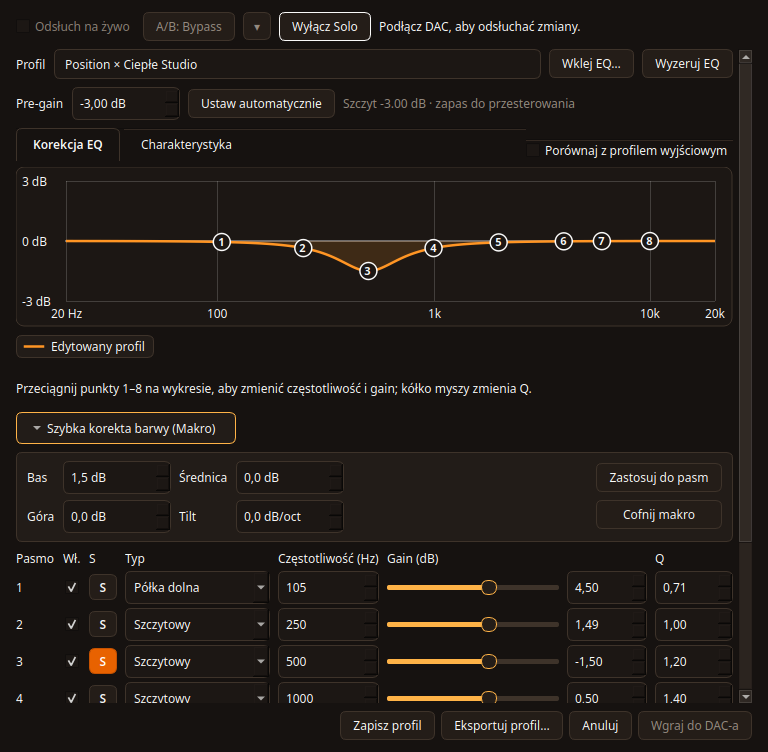
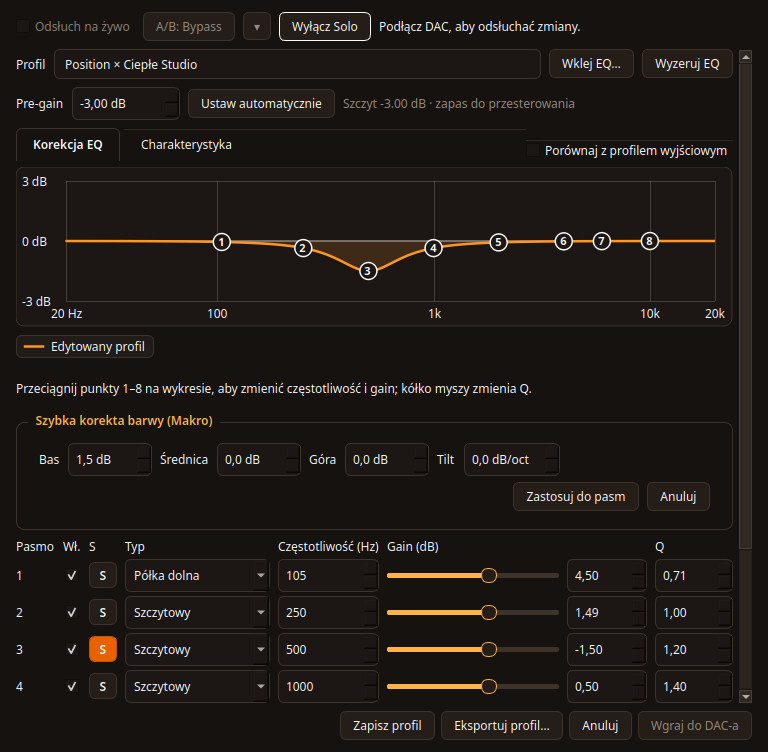
fix(ui): keep Macro box open in single frequency-ordered row and use Anuluj/Cancel

diff --git a/scripts/dsp_control.py b/scripts/dsp_control.py
@@ -2680,8 +2680,8 @@ class EqualizerDialog(QDialog):
         self.compare_profile = compare_profile
         self.setWindowTitle(tr("editor.title"))
         self.setStyleSheet(APP_STYLE)
-        self.setMinimumSize(625, 460)
-        size_to_screen(self, 900, 850)
+        self.setMinimumSize(625, 480)
+        size_to_screen(self, 960, 920)
         self.result_profile = None
         self.result_apply = False
         self.device_window = parent
@@ -2881,63 +2881,45 @@ class EqualizerDialog(QDialog):
         self.live_timer.timeout.connect(self.send_live)
         self.preamp.valueChanged.connect(lambda: self.plot_timer.start())
 
-        self.macro_panel = QFrame()
+        self.macro_panel = QGroupBox(tr("editor.macro_toggle"))
         self.macro_panel.setObjectName("macroCard")
-        self.macro_panel.setStyleSheet(
-            "QFrame#macroCard {"
-            " border: 1px solid palette(mid);"
-            " border-radius: 6px;"
-            " background: palette(alternate-base);"
-            "}"
-            "QFrame#macroCard QDoubleSpinBox { padding: 2px 6px; }"
-        )
-        self.macro_panel.setVisible(False)
-        macro_grid = QGridLayout(self.macro_panel)
-        macro_grid.setContentsMargins(10, 8, 10, 8)
-        macro_grid.setHorizontalSpacing(8)
-        macro_grid.setVerticalSpacing(6)
+        self.macro_panel.setStyleSheet("QGroupBox#macroCard QDoubleSpinBox { padding: 2px 6px; }")
+        macro_vbox = QVBoxLayout(self.macro_panel)
+        macro_vbox.setContentsMargins(10, 6, 10, 8)
+        macro_vbox.setSpacing(6)
+        macro_row = QHBoxLayout()
+        macro_row.setContentsMargins(0, 0, 0, 0)
+        macro_row.setSpacing(8)
         self.macro_controls: dict[str, QDoubleSpinBox] = {}
-        for idx, (key, label_key, m_min, m_max, m_step, suffix) in enumerate(
-            (
-                ("bass", "editor.macro_bass", -6.0, 6.0, 0.5, " dB"),
-                ("mid", "editor.macro_mid", -6.0, 6.0, 0.5, " dB"),
-                ("treble", "editor.macro_treble", -6.0, 6.0, 0.5, " dB"),
-                ("tilt", "editor.macro_tilt", -3.0, 3.0, 0.1, " dB/oct"),
-            )
+        for key, label_key, m_min, m_max, m_step, suffix, width in (
+            ("bass", "editor.macro_bass", -6.0, 6.0, 0.5, " dB", 84),
+            ("mid", "editor.macro_mid", -6.0, 6.0, 0.5, " dB", 84),
+            ("treble", "editor.macro_treble", -6.0, 6.0, 0.5, " dB", 84),
+            ("tilt", "editor.macro_tilt", -3.0, 3.0, 0.1, " dB/oct", 96),
         ):
-            r, c = divmod(idx, 2)
             lbl = QLabel(tr(label_key))
             spin = self.decimal(m_min, m_max, m_step)
             spin.setDecimals(1)
             spin.setSuffix(suffix)
-            spin.setFixedWidth(108)
+            spin.setFixedWidth(width)
             spin.setValue(0.0)
             spin.valueChanged.connect(self._on_macro_changed)
-            macro_grid.addWidget(lbl, r, c * 2)
-            macro_grid.addWidget(spin, r, c * 2 + 1)
+            macro_row.addWidget(lbl)
+            macro_row.addWidget(spin)
             self.macro_controls[key] = spin
-        macro_grid.setColumnStretch(4, 1)
-        macro_btns = QVBoxLayout()
+        macro_row.addStretch(1)
+        macro_vbox.addLayout(macro_row)
+        macro_btns = QHBoxLayout()
         macro_btns.setContentsMargins(0, 0, 0, 0)
-        macro_btns.setSpacing(6)
+        macro_btns.setSpacing(8)
+        macro_btns.addStretch(1)
         self.apply_macro_btn = QPushButton(tr("editor.macro_apply"))
         self.apply_macro_btn.clicked.connect(self.apply_macro)
         self.revert_macro_btn = QPushButton(tr("editor.macro_revert"))
         self.revert_macro_btn.clicked.connect(self.revert_macro)
         macro_btns.addWidget(self.apply_macro_btn)
         macro_btns.addWidget(self.revert_macro_btn)
-        macro_grid.addLayout(macro_btns, 0, 5, 2, 1)
-
-        self.macro_toggle = QToolButton()
-        self.macro_toggle.setText(tr("editor.macro_toggle"))
-        self.macro_toggle.setToolButtonStyle(Qt.ToolButtonStyle.ToolButtonTextBesideIcon)
-        self.macro_toggle.setArrowType(Qt.ArrowType.RightArrow)
-        self.macro_toggle.setCheckable(True)
-        self.macro_toggle.toggled.connect(self.macro_panel.setVisible)
-        self.macro_toggle.toggled.connect(
-            lambda open_: self.macro_toggle.setArrowType(Qt.ArrowType.DownArrow if open_ else Qt.ArrowType.RightArrow)
-        )
-        layout.addWidget(self.macro_toggle)
+        macro_vbox.addLayout(macro_btns)
         layout.addWidget(self.macro_panel)
 
         bands_panel = QWidget()

diff --git a/tests/test_v06_features.py b/tests/test_v06_features.py
@@ -171,10 +171,7 @@ def test_editor_mute_solo_ab_targets_and_macro_panel(tmp_path: Path, monkeypatch
             dialog.ab_bypass.setChecked(False)
             app.processEvents()
 
-            # Macro panel toggle, slider change, revert, apply
-            assert not dialog.macro_panel.isVisible()
-            dialog.macro_toggle.setChecked(True)
-            app.processEvents()
+            # Macro panel always visible, slider change, revert, apply
             assert dialog.macro_panel.isVisible()
             before_band1 = dialog.rows[0][2].value()
             dialog.macro_controls["bass"].setValue(2.0)
